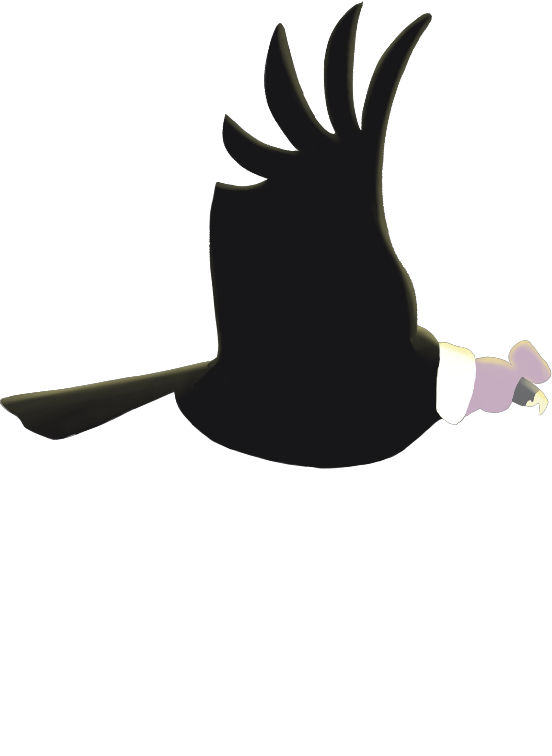
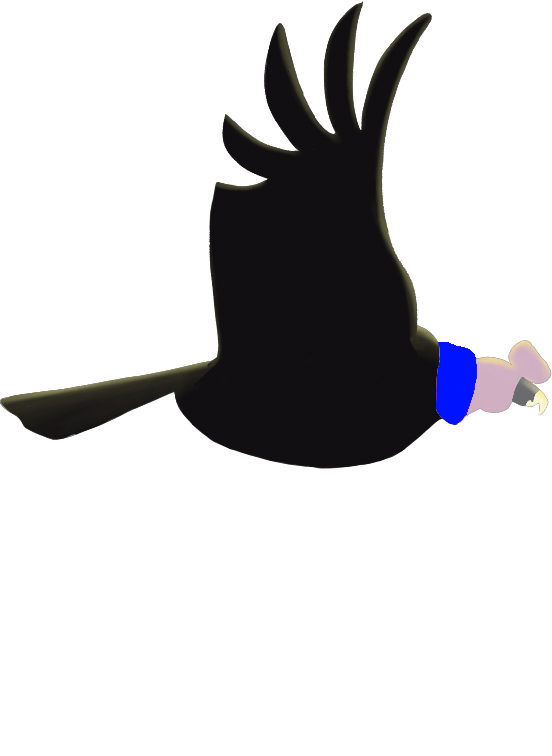
Updated Players Textures in Multiplayer

Changed region(s): [[0.7699, 0.4563, 0.8623, 0.578]]

diff --git a/src/Play/Play.cpp b/src/Play/Play.cpp
@@ -138,8 +138,8 @@ namespace FlappyBird
 		const float buttonHeight = static_cast<float>(backMenuLoseButtonTexture.height);
 		float buttonYPos = static_cast<float>(GetScreenHeight()) / 4 * 3 + buttonHeight;
 
-		float backMenuPausebuttonXPos = static_cast<float>(GetScreenWidth() / 2) - buttonWidth -130;
-		float playAgainButtonXPos = static_cast<float>(GetScreenWidth() / 2) + buttonWidth -130;
+		float backMenuPausebuttonXPos = static_cast<float>(GetScreenWidth() / 2) - buttonWidth - 130;
+		float playAgainButtonXPos = static_cast<float>(GetScreenWidth() / 2) + buttonWidth - 130;
 
 		InitButton(backMenuLoseButton, backMenuLoseButtonTexture, backMenuLoseButtonPressedTexture, backMenuPausebuttonXPos, buttonYPos, buttonWidth, buttonHeight, RAYWHITE);
 		InitButton(playAgainButton, playAgainButtonTexture, playAgainButtonPressedTexture, playAgainButtonXPos, buttonYPos, buttonWidth, buttonHeight, RAYWHITE);
@@ -301,7 +301,6 @@ namespace FlappyBird
 		}
 	}
 
-
 	static void DrawPlay()
 	{
 		BeginDrawing();
@@ -362,6 +361,11 @@ namespace FlappyBird
 				DrawButton(playAgainButton);
 
 				Vector2 scorePos = { static_cast<float>(GetScreenWidth()) / 3 - 50, static_cast<float>(GetScreenHeight()) / 3 + 50 };
+				if (player1.score >= 10)
+				{
+					scorePos = { static_cast<float>(GetScreenWidth()) / 3 - 70, static_cast<float>(GetScreenHeight()) / 3 + 50 };
+				}
+				
 				float scoreFontSize = 90;
 				float textSpacing = 5;
 
@@ -391,34 +395,38 @@ namespace FlappyBird
 				float textSpacing = 20;
 				DrawTextEx(textFont, "Jump to begin!", textPos, textFontSize, textSpacing, WHITE);
 			}
-				if (GAME_OVER)
+			if (GAME_OVER)
+			{
+				if (player1.score <= 5)
 				{
-					if (player1.score <= 5)
-					{
-						DrawTextureEx(loseTexture_Bad, { static_cast<float>(GetScreenWidth() / 4), static_cast<float>(GetScreenHeight() / 4) }, 0, 0.5f, RAYWHITE);
-					}
-					else if (player1.score <= 12)
-					{
-						DrawTextureEx(loseTexture_Ok, { static_cast<float>(GetScreenWidth() / 4), static_cast<float>(GetScreenHeight() / 4) }, 0, 0.5f, RAYWHITE);
-					}
-					else if (player1.score <= 20)
-					{
-						DrawTextureEx(loseTexture_Good, { static_cast<float>(GetScreenWidth() / 4), static_cast<float>(GetScreenHeight() / 4) }, 0, 0.5f, RAYWHITE);
-					}
-					else
-					{
-						DrawTextureEx(loseTexture_VeryGood, { static_cast<float>(GetScreenWidth() / 4), static_cast<float>(GetScreenHeight() / 4) }, 0, 0.5f, RAYWHITE);
-					}
-
-					DrawButton(backMenuLoseButton);
-					DrawButton(playAgainButton);
-
-					Vector2 scorePos = { static_cast<float>(GetScreenWidth()) / 3 - 20, static_cast<float>(GetScreenHeight()) / 3 };
-					float scoreFontSize = 90;
-					float textSpacing = 5;
-
-					DrawTextEx(textFont, TextFormat("Total Score : %01i", player1.score), scorePos, scoreFontSize, textSpacing, DARKPURPLE);
+					DrawTextureEx(loseTexture_Bad, { static_cast<float>(GetScreenWidth() / 4), static_cast<float>(GetScreenHeight() / 4) }, 0, 0.5f, RAYWHITE);
 				}
+				else if (player1.score <= 12)
+				{
+					DrawTextureEx(loseTexture_Ok, { static_cast<float>(GetScreenWidth() / 4), static_cast<float>(GetScreenHeight() / 4) }, 0, 0.5f, RAYWHITE);
+				}
+				else if (player1.score <= 20)
+				{
+					DrawTextureEx(loseTexture_Good, { static_cast<float>(GetScreenWidth() / 4), static_cast<float>(GetScreenHeight() / 4) }, 0, 0.5f, RAYWHITE);
+				}
+				else
+				{
+					DrawTextureEx(loseTexture_VeryGood, { static_cast<float>(GetScreenWidth() / 4), static_cast<float>(GetScreenHeight() / 4) }, 0, 0.5f, RAYWHITE);
+				}
+
+				DrawButton(backMenuLoseButton);
+				DrawButton(playAgainButton);
+
+				Vector2 scorePos = { static_cast<float>(GetScreenWidth()) / 3 - 50, static_cast<float>(GetScreenHeight()) / 3 + 50 };
+				if (player1.score >= 10)
+				{
+					scorePos = { static_cast<float>(GetScreenWidth()) / 3 - 70, static_cast<float>(GetScreenHeight()) / 3 + 50 };
+				}
+				float scoreFontSize = 90;
+				float textSpacing = 5;
+
+				DrawTextEx(textFont, TextFormat("Total Score : %01i", player1.score), scorePos, scoreFontSize, textSpacing, DARKPURPLE);
+			}
 		}
 		EndDrawing();
 	}
@@ -488,7 +496,7 @@ namespace FlappyBird
 		currentScreen = Screen::ModeSelector;
 
 		InitLoseScreen();
-		
+
 		GAME_OVER = false;
 
 		restStart = true;

diff --git a/src/Pause/Pause.cpp b/src/Pause/Pause.cpp
@@ -43,9 +43,6 @@ namespace FlappyBird
 		const float buttonHeight = static_cast<float>(backMenuPauseButtonTexture.height);
 		float buttonYPos = static_cast<float>(GetScreenHeight()) / 2 - buttonHeight - 10;
 
-		/*float backMenuPausebuttonXPos = static_cast<float>(GetScreenWidth()) / 2 - buttonWidth - 180;
-		float resumeButtonXPos = static_cast<float>(GetScreenWidth()) / 2 + buttonWidth + 40;*/
-
 		float backMenuPausebuttonXPos = static_cast<float>(GetScreenWidth() / 2) - buttonWidth - 130;
 		float resumeButtonXPos = static_cast<float>(GetScreenWidth() / 2) + buttonWidth - 130;
 
